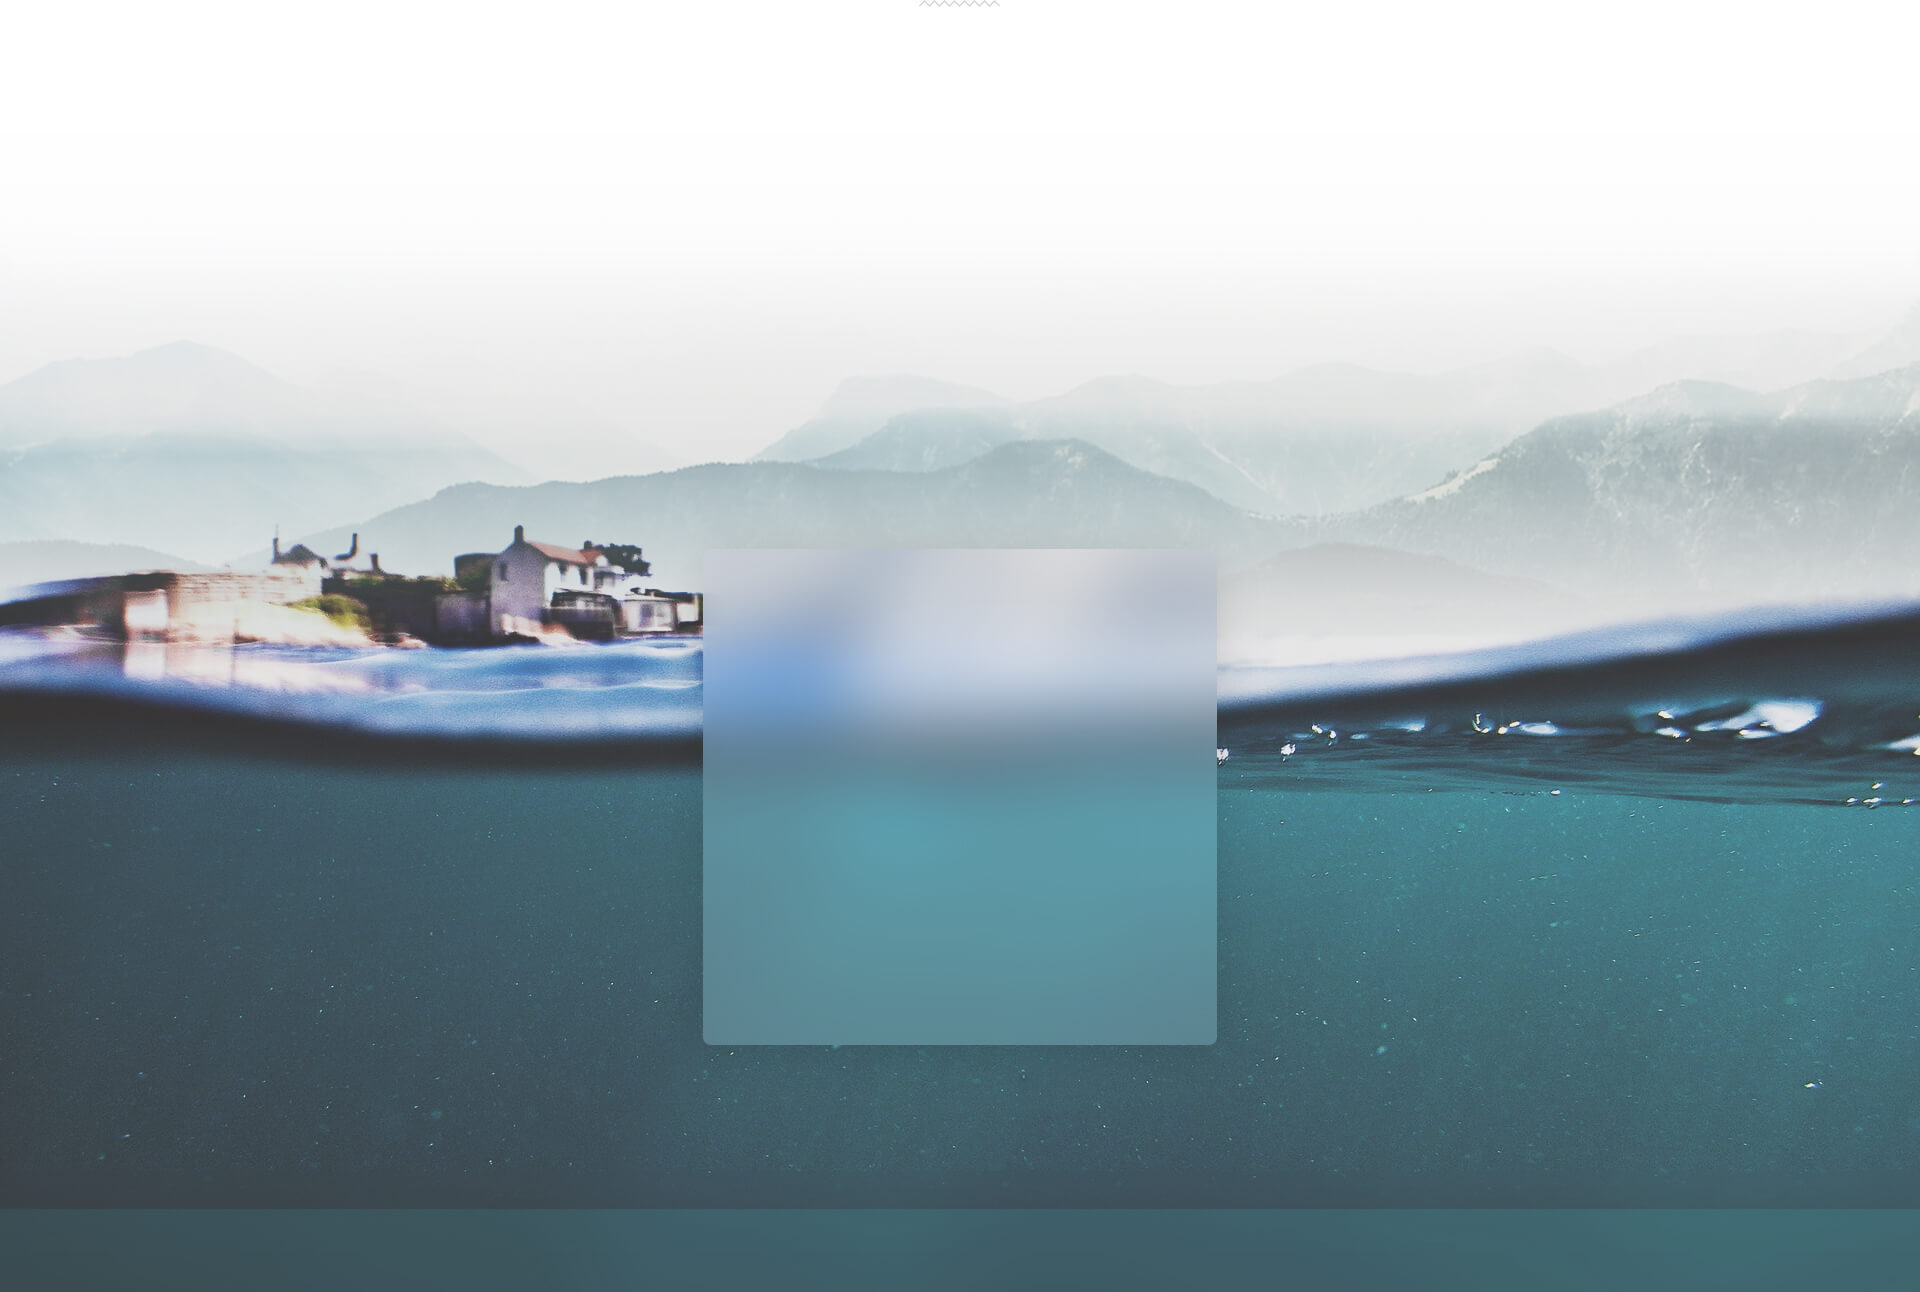
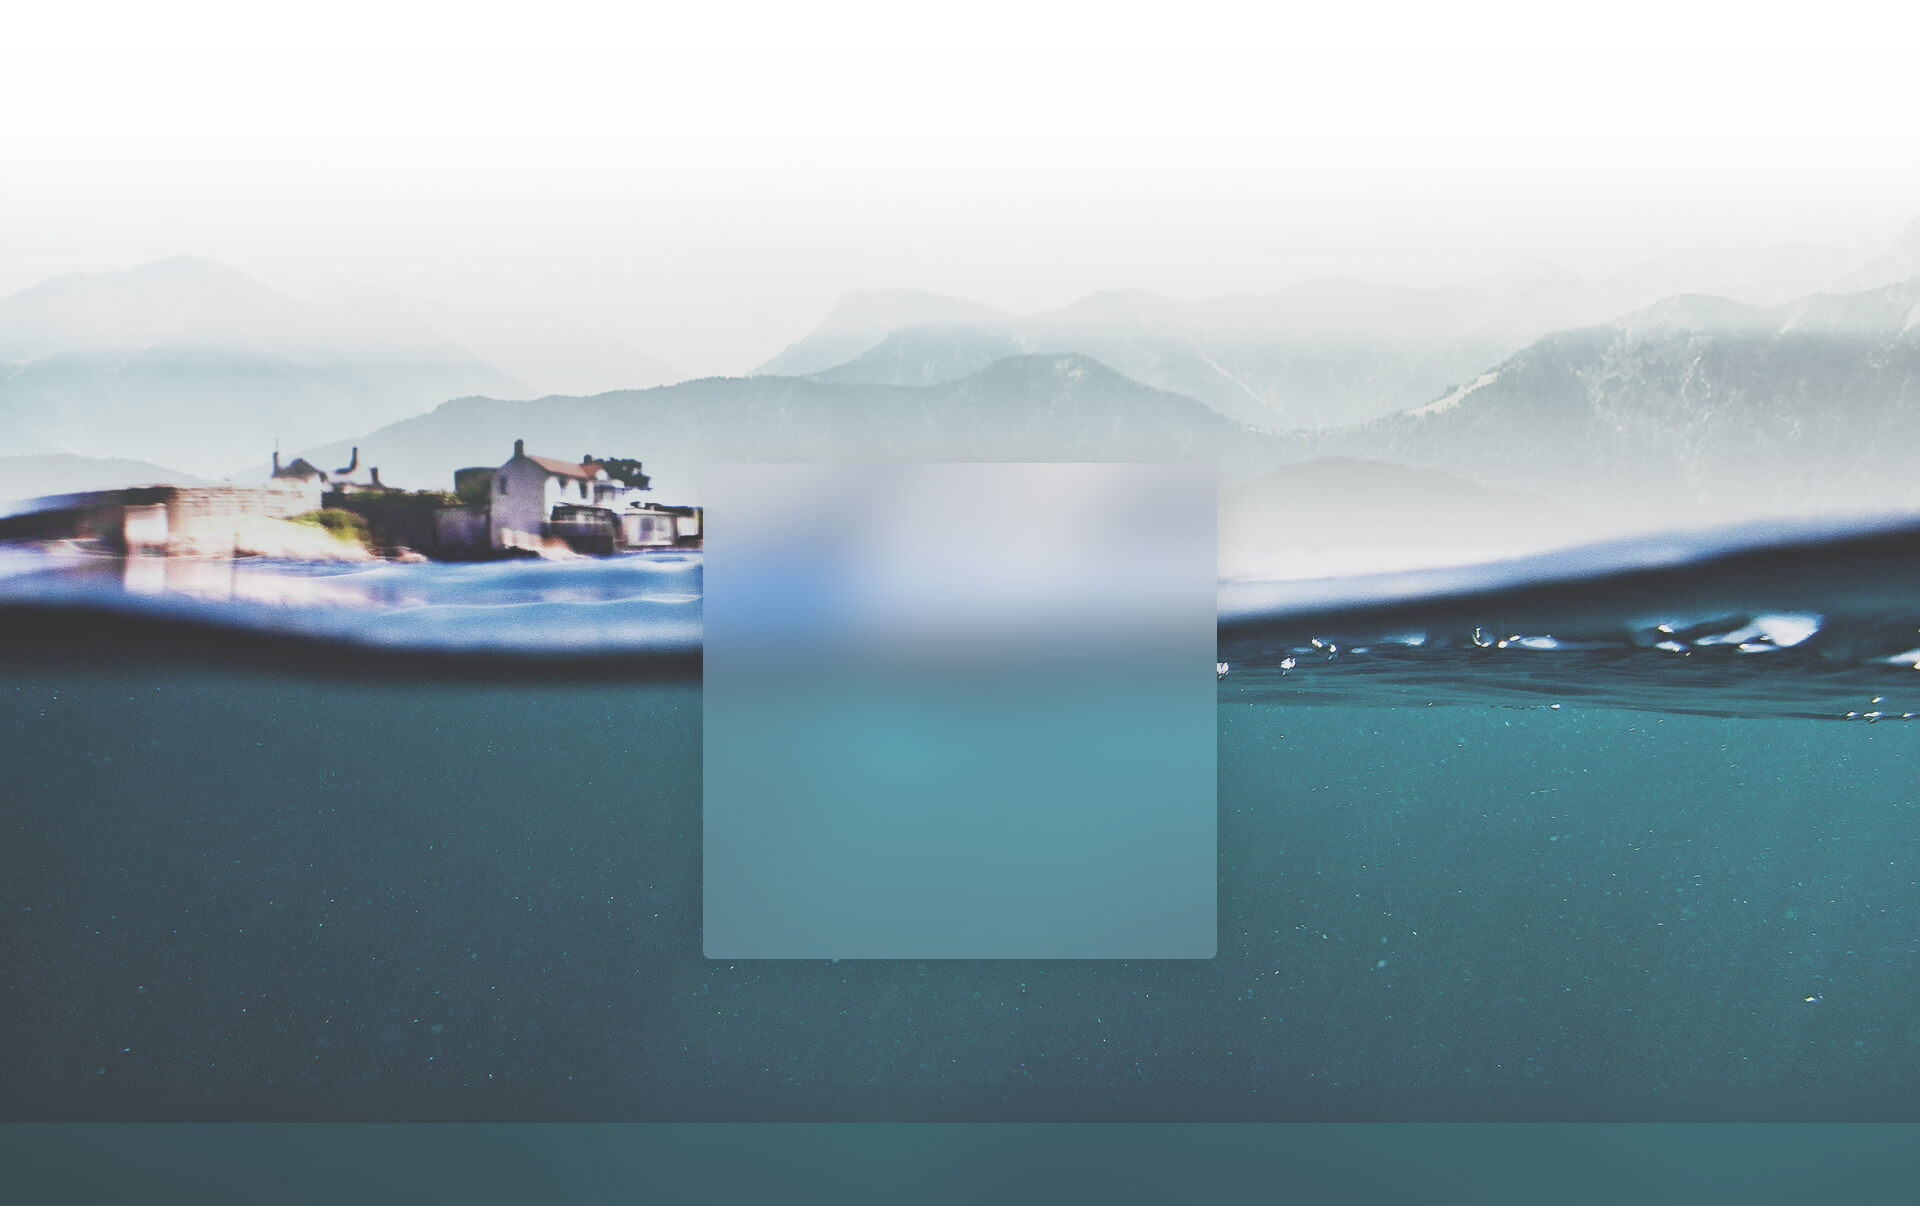
updateImg

diff --git a/Mountains Travel Project/css/style.css b/Mountains Travel Project/css/style.css
@@ -1,7 +1,9 @@
 				/*header settings*/
 .backgroundImage {
-    height: 698px;
-    width: 1901px;
+	background-size: cover;
+	background-position: center;
+	height: 698px;
+	width: 100%;
     background-image: url(../images/travel.jpg);
 }
 .logo {
@@ -120,8 +122,16 @@ h2.totheMountains {
 				/*section1*/
 .section1 {
 	height: 667px;
-	width: 1901px;
+	width: 100%;
+	background-position: center;
+	background-size: cover;
 	background-image: url(../images/section1-background.jpg);
+}
+.wave-icon1 {
+	display: inline-block;
+	position: absolute;
+	margin-left: 392px;
+	margin-top: 206px;
 }
 .aboutUs {
 	text-transform: uppercase;
@@ -178,10 +188,10 @@ h2.totheMountains {
 				/*section2*/
 .section2 {
 	height: 990px;
-	width: 1901px;
+	width: 100%;
 	background-color: #ffffff;
 }
-.wave-icon {
+.wave-icon2 {
 	display: inline-block;
 	position: absolute;
 	margin-left: 915px;
@@ -434,8 +444,16 @@ h2.totheMountains {
 				/*section3*/
 .section3 {
 	height: 651px; 
-	width: 1901px;
-	background-image: url(../images/tree-background.jpg);
+	width: 100%;
+	background-position: center;
+	background-size: cover;
+	background-image: url(../images/tree-bg.jpg);
+}
+.wave-icon3 {
+	display: inline-block;
+	position: absolute;
+	margin-left: 390px;
+	margin-top: 142px;
 }
 .doyou {
 	padding-top: 192px;
@@ -536,7 +554,7 @@ h2.totheMountains {
 	width: 1901px;
 	background-color: #ffffff;
 }
-.wave {
+.wave-icon4 {
 	margin-left: 914px;
 	margin-top: 55px;
 }
@@ -665,7 +683,15 @@ h2.totheMountains {
 .section5 {
 	background-image: url(../images/travel-with-usbg.jpg);
 	height: 1022px;
-	width: 1901px;
+	width: 100%;
+	background-position: center;
+	background-size: cover;
+	}
+	.wave-icon5 {
+		display: inline-block;
+		position: absolute;
+		margin-left: 918px;
+		
 	}
 .travelwithus {
 	font-family: 'Open Sans', sans-serif;
@@ -772,6 +798,7 @@ h2.totheMountains {
 .section6 {
 	height: 951px;
 	width: 1901px;
+	width: 100%;
 }
 .wave-icon6 {
 	display: inline-block;
@@ -831,6 +858,7 @@ h2.totheMountains {
 }
 				/*section7*/
 .section7 {
+	width: 100%;
 	height: 180px;
 	background-color: #f8f9fa;
 }
@@ -848,9 +876,17 @@ h2.totheMountains {
 				/*footer settings*/
 .footer {
 	margin-top: 68px;
-	width: 1901px;
 	height: 1292px;
+	width: 100%;
+	background-position: center;
+	background-size: cover;
 	background-image: url(../images/footer-bg.jpg);
+}
+.wave-iconf {
+	display: inline-block;
+	position: absolute;
+	margin-left: 918px;
+
 }
 .oursay {
 	font-family: 'Open Sans', sans-serif;
@@ -869,7 +905,7 @@ h2.totheMountains {
 	font-weight: 900;
 	color: #7ec4d6;
 	margin-top: 1174px;
-	margin-left: 1354px;
+	margin-left: 1340px;
 }
 .allrights {
 	display: inline-block;
@@ -887,7 +923,7 @@ h2.totheMountains {
 	width: 40px;
 	background-color: #2bbef1;
 	margin-top: 1150px;
-	margin-left: 896px;
+	margin-left: 890px;
 	color: #ffffff;
 }
 .twitter i {
@@ -901,7 +937,7 @@ h2.totheMountains {
 	width: 40px;
 	background-color: #6788ce;
 	margin-top: 1150px;
-	margin-left: 938px;
+	margin-left: 932px;
 	color: #ffffff;
 }
 .facebook i {
@@ -915,7 +951,7 @@ h2.totheMountains {
 	width: 40px;
 	background-color: #54769a;
 	margin-top: 1150px;
-	margin-left: 980px;
+	margin-left: 974px;
 	color: #ffffff;
 }
 .vk i {
@@ -994,8 +1030,8 @@ h2.totheMountains {
 	position: absolute;
 	height: 66px;
 	width: 344px;
-	margin-top: 520px;
-	margin-left: 792px;
+	margin-top: 470px;
+	margin-left: 784px;
 }
 .wcontacts {
 	display: inline-block;
@@ -1018,8 +1054,8 @@ h2.totheMountains {
 .footform {
 	display: inline-block;
 	position: absolute;
-	margin-top: 622px;
-	margin-left: 732px;
+	margin-top: 580px;
+	margin-left: 722px;
 }
 .footinput1 {
 	height: 60px;
@@ -1065,7 +1101,7 @@ h2.totheMountains {
 	border-radius: 4px;
 	background-color: #36aeea;
 	border: none;
-	margin-top: 100px;
+	margin-top: 102px;
 	margin-left: -456px;
 	cursor: pointer;
 }

diff --git a/Mountains Travel Project/index.html b/Mountains Travel Project/index.html
@@ -14,7 +14,6 @@
 				<link href="https://use.fontawesome.com/releases/v5.0.6/css/all.css" rel="stylesheet">
 				<script src="js/jquery-3.3.1.min.js"></script>
 				<script type="text/javascript" src="js/script.js"></script>
-
 </head>
 <body>
     
@@ -50,6 +49,7 @@
 
 	<main>
 		<div id="ourstory" class="section1">
+			<img src="images/wave-icon.png" alt="wave-icon" class="wave-icon1">
 			<div class="txt1">
 			<h3 class="aboutUs">about us</h3>
 			<p class="loremText">Aliquam sed posuere urna,et gravida nisl.Praesent<br>
@@ -68,7 +68,7 @@
 			</div>
 		</div>
 		<div id="journal" class="section2">
-			<div class="wave-icon"><img src="images/wave-icon.png" alt="wave-icon"></div>
+			<div class="wave-icon2"><img src="images/wave-icon.png" alt="wave-icon"></div>
 			<h3 class="ourJournal">our journal</h3>
 			<div class="journalBigBlock">
 				<div class="post1">
@@ -98,6 +98,7 @@
 			</div>
 		</div>
 		<div class="section3">
+				<img src="images/wave-icon.png" alt="wave-icon" class="wave-icon3">
 				<div class="doyou">
 					<p class="wannago">Do you wanna go?</p>
 					<p class="greytext">Aliquam sed posuere urna, et gravida nisl.Praesent <br> interdum nisl libero, pretium egestas purus eleifend vitae. Mauris susciplt vel lectus at luctus. </p>
@@ -115,7 +116,7 @@
 					<p class="lockdata"><i class="fas fa-lock"></i> * Your data will not be transferred </p>
 		</div>
 		<div id="work" class="section4">
-			<div class="wave"><img src="images/wave-icon.png" alt="wave-icon"></div>
+			<div class="wave-icon4"><img src="images/wave-icon.png" alt="wave-icon"></div>
 			<h3 class="howwework">How we work</h3>
 			<div class="circle1"><p class="s4number">1</p></div>
 			<div class="circle2"><p class="s4number">2</p></div>
@@ -132,6 +133,7 @@
 			<p class="s4lorem4"><span class="blacklorem">Lorem ipsum dolor sit</span> <br> amet, consectetur adipisicing <br> elit, sed do eiusmod tempor <br> incididunt</p>
 		</div>
 		<div id="services" class="section5">
+			<img src="images/wave-icon.png" alt="wave-icon" class="wave-icon5">
 			<div class="travelwithus"><h3>Travel with us</h3></div>
 				
 			<div class="carpathian">
@@ -246,6 +248,7 @@
 
   <footer>
   	<div class="footer">
+		 	<img class="wave-iconf" src="images/wave-icon.png" alt="wave-icon">
 			<h3 class="oursay">Our clients say</h3>
 			<div class="say1">
 				<i class="fas fa-quote-left"></i>
